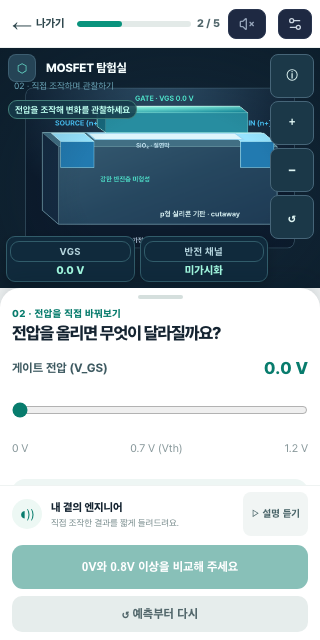
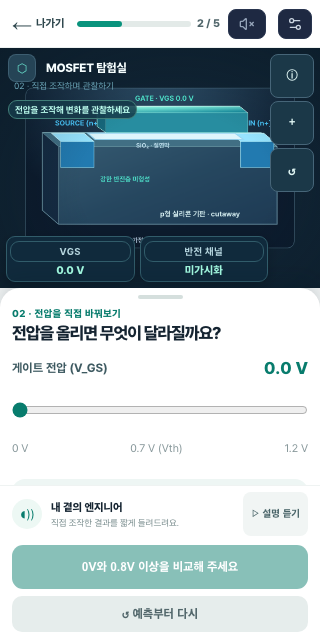
fix(a03-css): reserve 54px dock margin and hide secondary zoom-out on 320px to prevent toolbar overlap

Changed region(s): [[0.8438, 0.25, 0.9375, 0.375], [0.9688, 0.3125, 1.0, 0.375]]

diff --git a/src/components/player/lessonA03.css b/src/components/player/lessonA03.css
@@ -1226,6 +1226,9 @@
     flex-direction: column;
     gap: 3px;
   }
+  .a03-tool#zoom-out {
+    display: none;
+  }
   .a03-tool {
     width: 44px;
     height: 44px;
@@ -1292,7 +1295,7 @@
   }
   .a03-lab-dock-section {
     left: 8px;
-    right: 8px;
+    right: 54px;
     bottom: 8px;
     gap: 4px;
   }
